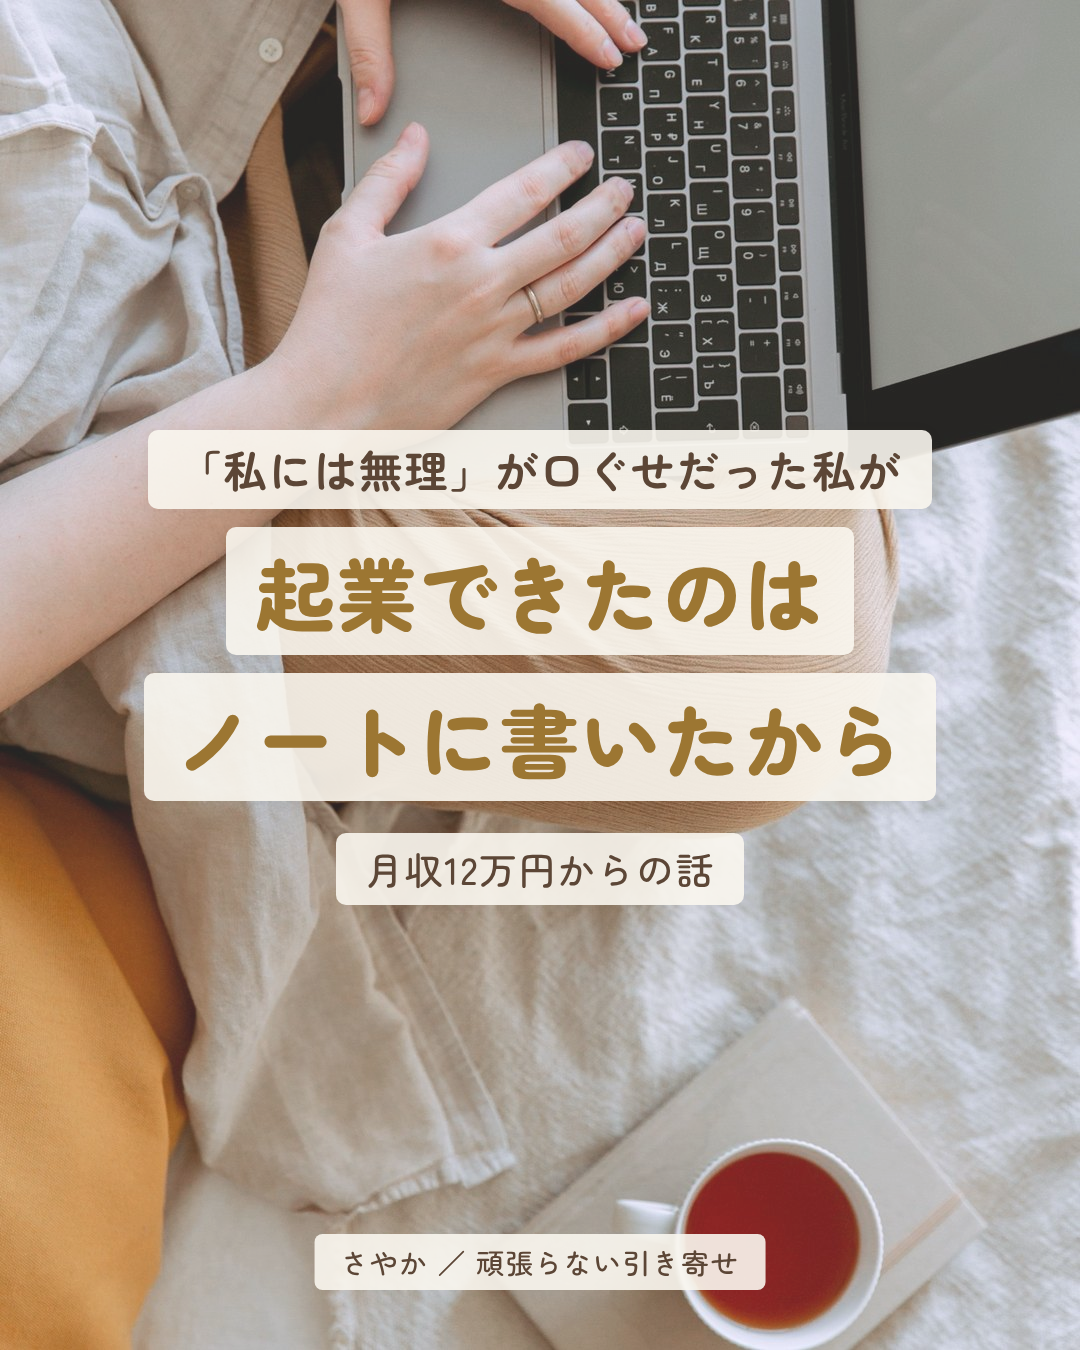
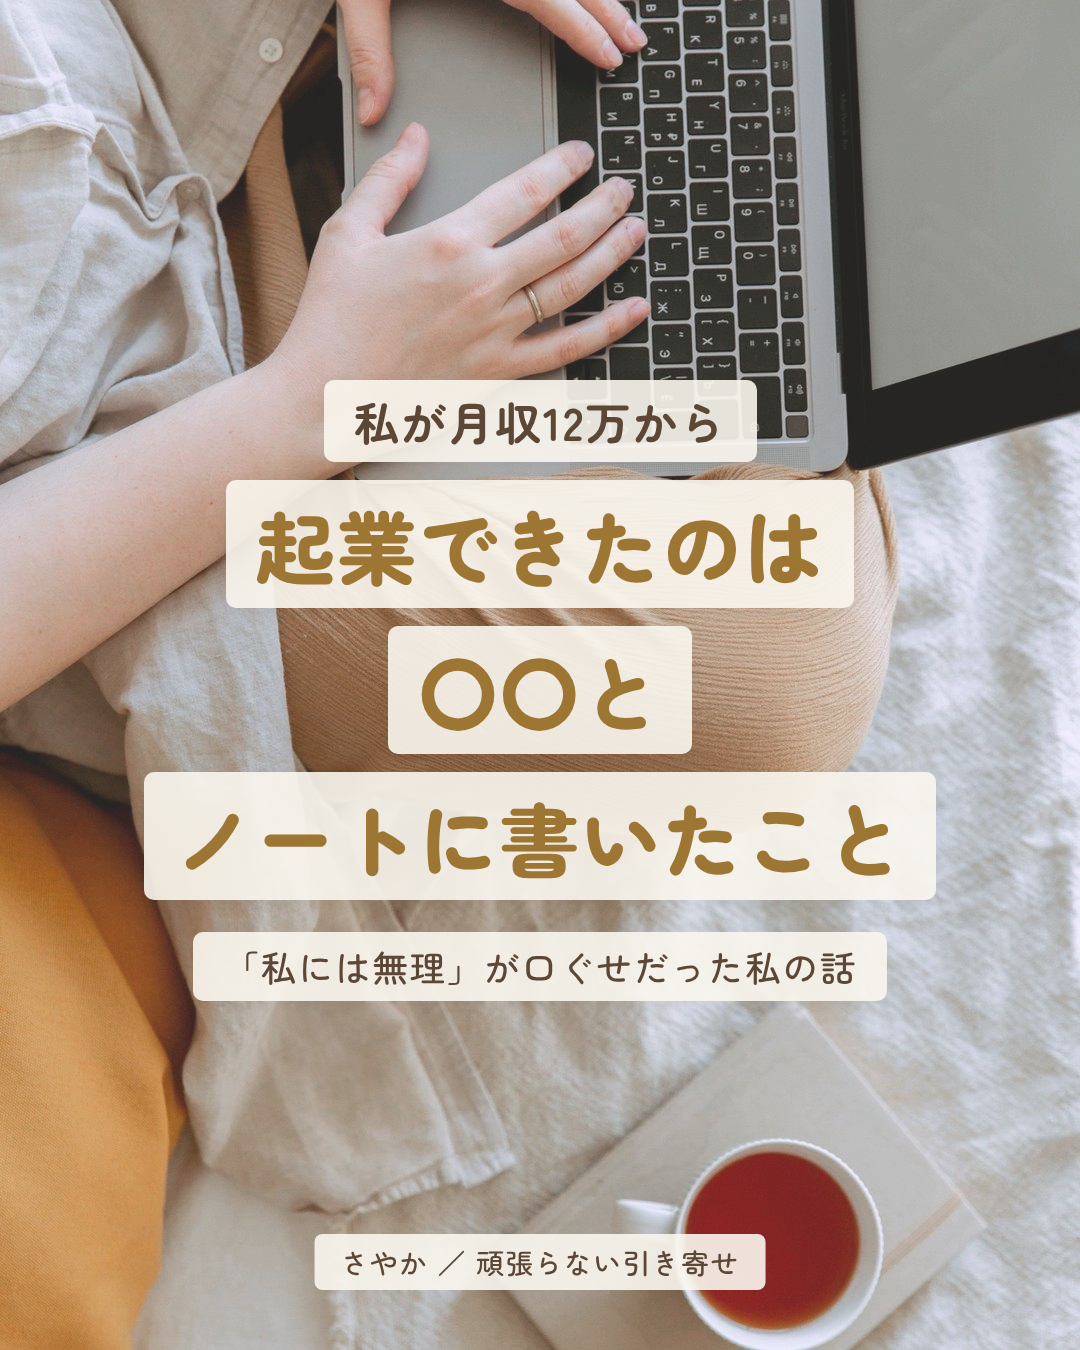
Change fifth carousel cover to teaser title with hidden answer
Claude-Session: https://claude.ai/code/session_01YUXq2WjFGxvpb1f5f2asyh

Changed region(s): [[0.1222, 0.28, 0.8861, 0.7467]]

diff --git a/carousel/hasegawa_post05/slides.html b/carousel/hasegawa_post05/slides.html
@@ -93,11 +93,12 @@
 
 <!-- 1P 表紙 -->
 <section class="slide" data-bg="desk" data-veil=".15">
-  <div class="stack" style="top:430px;">
-    <div class="pill b" style="font-size:44px;">「私には無理」が口ぐせだった私が</div>
+  <div class="stack" style="top:380px;">
+    <div class="pill b" style="font-size:46px;">私が月収12万から</div>
     <div class="pill g" style="font-size:80px;">起業できたのは</div>
-    <div class="pill g" style="font-size:80px;">ノートに書いたから</div>
-    <div class="pill b" style="font-size:38px; margin-top:14px; font-weight:500;">月収12万円からの話</div>
+    <div class="pill g" style="font-size:80px;">〇〇と</div>
+    <div class="pill g" style="font-size:80px;">ノートに書いたこと</div>
+    <div class="pill b" style="font-size:36px; margin-top:14px; font-weight:500;">「私には無理」が口ぐせだった私の話</div>
   </div>
 </section>
 
@@ -128,7 +129,7 @@
 
 <section class="slide" data-bg="plain">
   <div class="stack" style="top:150px;">
-    <div class="no">やったこと②</div>
+    <div class="no">やったこと②　〇〇の答え</div>
     <div class="pill g" style="font-size:72px; padding:12px 44px;">セルフイメージを高める</div>
   </div>
   <div class="abs card" style="top:500px; left:70px; right:70px; text-align:center; font-size:42px; line-height:1.75;">

diff --git a/hasegawa_instagram_post05_kigyou_note.md b/hasegawa_instagram_post05_kigyou_note.md
@@ -1,4 +1,4 @@
-# 長谷川 彩矢香さん｜Instagram 5本目のカルーセル原稿（8P）「『私には無理』が口ぐせだった私が、起業できたのはノートに書いたから」
+# 長谷川 彩矢香さん｜Instagram 5本目のカルーセル原稿（8P）「私が月収12万から起業できたのは〇〇とノートに書いたこと」
 
 - 状態：初稿（本人確認が必要）
 - 作成日：2026-11-01
@@ -40,7 +40,7 @@
 
 | P | 役割 | 見出し | 保存CTA（右下） |
 |---|---|---|---|
-| 1P | 表紙 | 起業できたのは、ノートに書いたから | なし |
+| 1P | 表紙 | 私が月収12万から起業できたのは〇〇とノートに書いたこと | なし |
 | 2P | 以前の私 | 「私には無理」が口ぐせだった | なし |
 | 3P | 転機 | 頭の中で「無理」と思うだけだった | なし |
 | 4P | やったこと① | 本当は、どうしたい？ | なし |
@@ -56,10 +56,12 @@
 ## 3. 各ページ原稿
 
 ### 1P（表紙）
-- 小（茶）：「私には無理」が口ぐせだった私が
+- 小（茶）：私が月収12万から
 - 大（金）：起業できたのは
-- 大（金）：ノートに書いたから
-- 小（茶）：月収12万円からの話
+- 大（金）：〇〇と
+- 大（金）：ノートに書いたこと
+- 小（茶）：「私には無理」が口ぐせだった私の話
+- 表紙は本人の案で変更（2026-11-01）。上の小（茶）は「私が月収12万から」、大（金）は「起業できたのは」。〇〇はあえて伏せ、5P（やったこと②）の印に「〇〇の答え」と入れて「セルフイメージを高める」で明かす
 
 ### 2P（以前の私）
 - 見出し：「私には無理」が口ぐせだった
@@ -113,8 +115,9 @@
 ## 4. キャプション
 
 ```
-「私には無理」が口ぐせだった私が、起業できたのは
-ノートに書いたからでした。
+私が月収12万から起業できたのは、
+〇〇と、ノートに書いたこと。
+〇〇の答えは5枚目にあります。
 
 27歳頃まで、体調もお金も人間関係も苦しかった。
 月収12万円で、いつもお金の不安。人と話すのも苦手。
